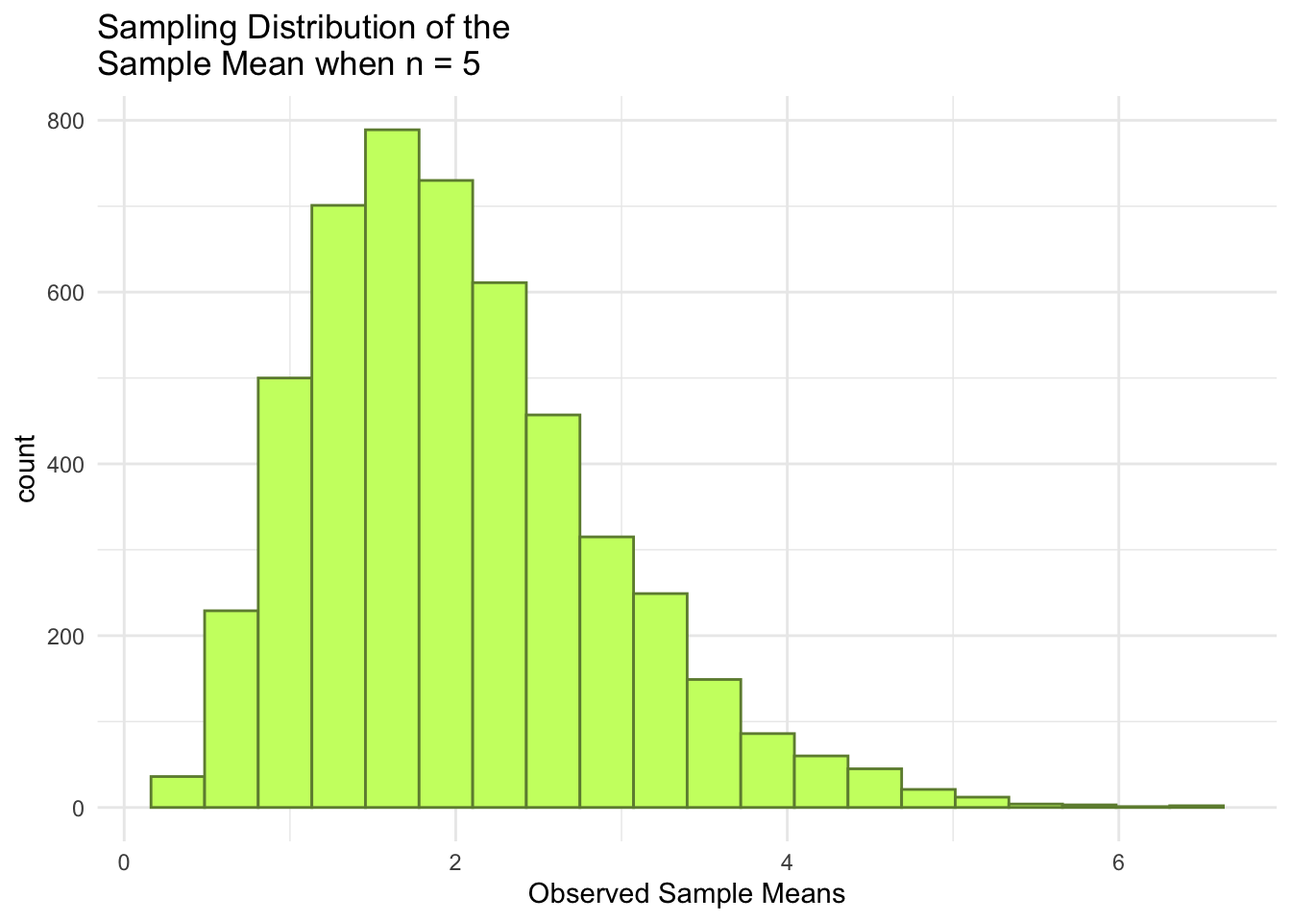
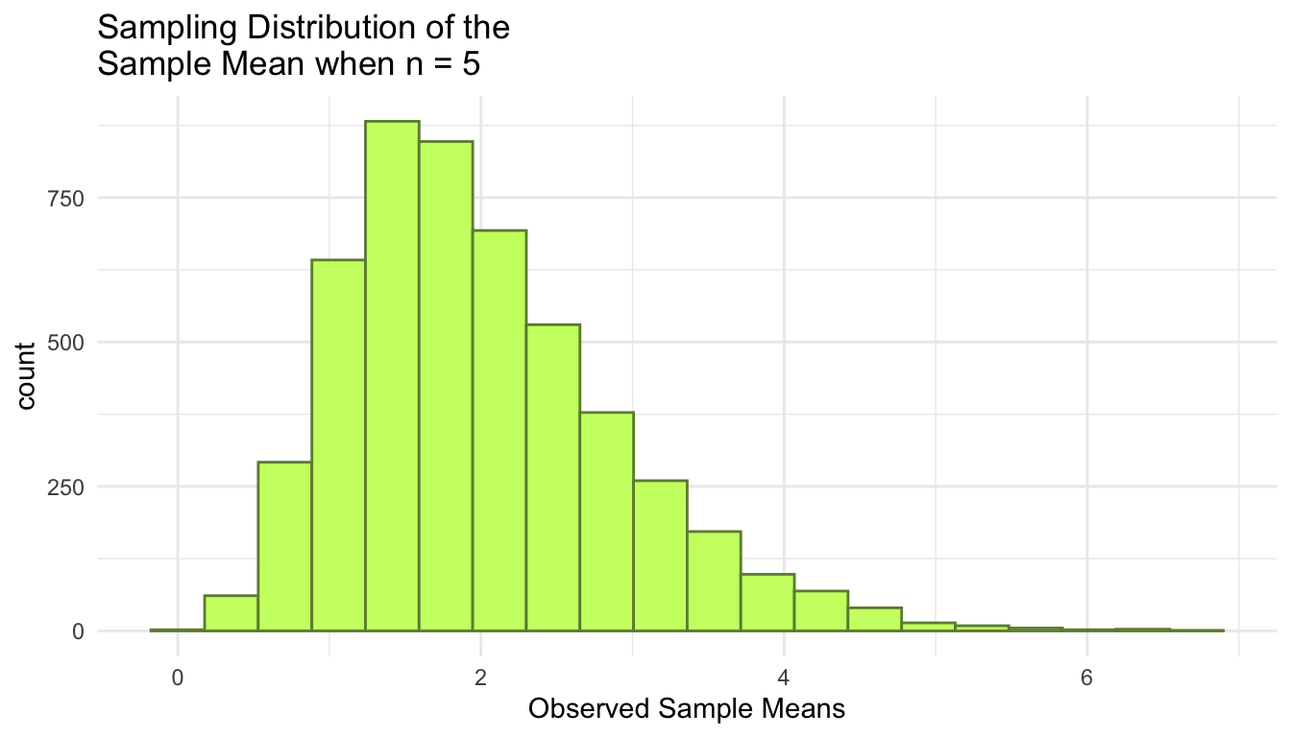
added common R file.

diff --git a/docs/samp-dist.html b/docs/samp-dist.html
@@ -258,25 +258,21 @@ window.Quarto = {
 <span><span class="co"># generate a random sample of n observations from a normal population</span></span>
 <span><span class="va">single_sample</span> <span class="op">&lt;-</span> <span class="fu"><a href="https://rdrr.io/r/stats/Normal.html">rnorm</a></span><span class="op">(</span><span class="va">n</span>, <span class="va">mu</span>, <span class="va">sigma</span><span class="op">)</span> <span class="op">|&gt;</span> <span class="fu"><a href="https://rdrr.io/r/base/Round.html">round</a></span><span class="op">(</span><span class="fl">2</span><span class="op">)</span></span>
 <span><span class="co"># look at the sample</span></span>
-<span><span class="va">single_sample</span> </span></code><button title="Copy to Clipboard" class="code-copy-button"><i class="bi"></i></button></pre></div>
-<div class="cell-output cell-output-stdout">
-<pre><code>[1]  7.93  8.31 12.45  8.24 12.08</code></pre>
-</div>
+<span><span class="va">single_sample</span> </span>
+<span><span class="co">#&gt; [1] 10.80  7.77 12.30 10.69 10.36</span></span></code><button title="Copy to Clipboard" class="code-copy-button"><i class="bi"></i></button></pre></div>
 </div>
 <p>Next, we compute the sample mean from this sample: this is our sample statistic we are interested in.</p>
 <div class="cell">
-<div class="sourceCode" id="cb4"><pre class="downlit sourceCode r code-with-copy"><code class="sourceCode R"><span><span class="co"># compute the sample mean</span></span>
+<div class="sourceCode" id="cb3"><pre class="downlit sourceCode r code-with-copy"><code class="sourceCode R"><span><span class="co"># compute the sample mean</span></span>
 <span><span class="va">sample_mean</span> <span class="op">&lt;-</span> <span class="fu"><a href="https://rdrr.io/r/base/mean.html">mean</a></span><span class="op">(</span><span class="va">single_sample</span><span class="op">)</span></span>
 <span><span class="co"># look at the sample mean</span></span>
-<span><span class="va">sample_mean</span>     </span></code><button title="Copy to Clipboard" class="code-copy-button"><i class="bi"></i></button></pre></div>
-<div class="cell-output cell-output-stdout">
-<pre><code>[1] 9.802</code></pre>
-</div>
+<span><span class="va">sample_mean</span>     </span>
+<span><span class="co">#&gt; [1] 10.384</span></span></code><button title="Copy to Clipboard" class="code-copy-button"><i class="bi"></i></button></pre></div>
 </div>
 <p>Again, your sample mean should be different!</p>
 <p>Finally, we can make a plot of our single sample, along with where the sample mean lies.</p>
 <div class="cell">
-<div class="sourceCode" id="cb6"><pre class="downlit sourceCode r code-with-copy"><code class="sourceCode R"><span><span class="co"># generate a range of values that span the population</span></span>
+<div class="sourceCode" id="cb4"><pre class="downlit sourceCode r code-with-copy"><code class="sourceCode R"><span><span class="co"># generate a range of values that span the population</span></span>
 <span><span class="va">plot_df</span> <span class="op">&lt;-</span> <span class="fu"><a href="https://tibble.tidyverse.org/reference/tibble.html">tibble</a></span><span class="op">(</span>xvals <span class="op">=</span> <span class="fu"><a href="https://rdrr.io/r/base/seq.html">seq</a></span><span class="op">(</span><span class="va">mu</span> <span class="op">-</span> <span class="fl">4</span> <span class="op">*</span> <span class="va">sigma</span>, <span class="va">mu</span> <span class="op">+</span> <span class="fl">4</span> <span class="op">*</span> <span class="va">sigma</span>, length.out <span class="op">=</span> <span class="fl">500</span><span class="op">)</span><span class="op">)</span> <span class="op">|&gt;</span></span>
 <span>  <span class="fu"><a href="https://dplyr.tidyverse.org/reference/mutate.html">mutate</a></span><span class="op">(</span>xvals_density <span class="op">=</span> <span class="fu"><a href="https://rdrr.io/r/stats/Normal.html">dnorm</a></span><span class="op">(</span><span class="va">xvals</span>, <span class="va">mu</span>, <span class="va">sigma</span><span class="op">)</span><span class="op">)</span></span>
 <span></span>
@@ -293,7 +289,7 @@ window.Quarto = {
 <span>       title <span class="op">=</span> <span class="st">"Normal with Mu = 10 and sigma = 2"</span><span class="op">)</span></span></code><button title="Copy to Clipboard" class="code-copy-button"><i class="bi"></i></button></pre></div>
 <div class="cell-output-display">
 <div>
-<figure class="figure"><p><img src="samp-dist_files/figure-html/unnamed-chunk-4-1.png" class="img-fluid figure-img" width="672"></p>
+<figure class="figure"><p><img src="samp-dist_files/figure-html/unnamed-chunk-5-1.png" class="img-fluid figure-img" width="672"></p>
 </figure>
 </div>
 </div>
@@ -307,7 +303,7 @@ window.Quarto = {
 </ol>
 <p>First, let’s write the function that will compute the sample mean with a given sample size from a normal population model with a given mean and standard deviation.</p>
 <div class="cell">
-<div class="sourceCode" id="cb7"><pre class="downlit sourceCode r code-with-copy"><code class="sourceCode R"><span><span class="va">n</span> <span class="op">&lt;-</span> <span class="fl">5</span>            <span class="co"># sample size</span></span>
+<div class="sourceCode" id="cb5"><pre class="downlit sourceCode r code-with-copy"><code class="sourceCode R"><span><span class="va">n</span> <span class="op">&lt;-</span> <span class="fl">5</span>            <span class="co"># sample size</span></span>
 <span><span class="va">mu</span> <span class="op">&lt;-</span> <span class="fl">10</span>          <span class="co"># population mean</span></span>
 <span><span class="va">sigma</span> <span class="op">&lt;-</span> <span class="fl">2</span>        <span class="co"># population standard deviation</span></span>
 <span></span>
@@ -320,14 +316,12 @@ window.Quarto = {
 <span><span class="op">}</span></span>
 <span></span>
 <span><span class="co">## test function once:</span></span>
-<span><span class="fu">generate_normal_mean</span><span class="op">(</span>mu <span class="op">=</span> <span class="va">mu</span>, sigma <span class="op">=</span> <span class="va">sigma</span>, n <span class="op">=</span> <span class="va">n</span><span class="op">)</span></span></code><button title="Copy to Clipboard" class="code-copy-button"><i class="bi"></i></button></pre></div>
-<div class="cell-output cell-output-stdout">
-<pre><code>[1] 9.692015</code></pre>
-</div>
+<span><span class="fu">generate_normal_mean</span><span class="op">(</span>mu <span class="op">=</span> <span class="va">mu</span>, sigma <span class="op">=</span> <span class="va">sigma</span>, n <span class="op">=</span> <span class="va">n</span><span class="op">)</span></span>
+<span><span class="co">#&gt; [1] 8.907905</span></span></code><button title="Copy to Clipboard" class="code-copy-button"><i class="bi"></i></button></pre></div>
 </div>
 <p>Next, to generate 5000 sample means, we map through the function:</p>
 <div class="cell">
-<div class="sourceCode" id="cb9"><pre class="downlit sourceCode r code-with-copy"><code class="sourceCode R"><span><span class="va">nsim</span> <span class="op">&lt;-</span> <span class="fl">5000</span>      <span class="co"># number of simulations</span></span>
+<div class="sourceCode" id="cb6"><pre class="downlit sourceCode r code-with-copy"><code class="sourceCode R"><span><span class="va">nsim</span> <span class="op">&lt;-</span> <span class="fl">5000</span>      <span class="co"># number of simulations</span></span>
 <span></span>
 <span><span class="co">## code to map through the function. </span></span>
 <span><span class="co">## the \(i) syntax says to just repeat the generate_normal_mean function</span></span>
@@ -337,81 +331,70 @@ window.Quarto = {
 <span><span class="co">## print some of the 5000 means</span></span>
 <span><span class="co">## each number represents the sample mean from __one__ sample.</span></span>
 <span><span class="va">means_df</span> <span class="op">&lt;-</span> <span class="fu"><a href="https://tibble.tidyverse.org/reference/tibble.html">tibble</a></span><span class="op">(</span><span class="va">means</span><span class="op">)</span></span>
-<span><span class="va">means_df</span></span></code><button title="Copy to Clipboard" class="code-copy-button"><i class="bi"></i></button></pre></div>
-<div class="cell-output cell-output-stdout">
-<pre><code># A tibble: 5,000 × 1
-   means
-   &lt;dbl&gt;
- 1 10.3 
- 2 10.5 
- 3 10.1 
- 4 11.5 
- 5 10.7 
- 6  8.98
- 7 10.9 
- 8  9.83
- 9 10.3 
-10 10.6 
-# ℹ 4,990 more rows</code></pre>
-</div>
+<span><span class="va">means_df</span></span>
+<span><span class="co">#&gt; # A tibble: 5,000 × 1</span></span>
+<span><span class="co">#&gt;   means</span></span>
+<span><span class="co">#&gt;   &lt;dbl&gt;</span></span>
+<span><span class="co">#&gt; 1  9.69</span></span>
+<span><span class="co">#&gt; 2 10.3 </span></span>
+<span><span class="co">#&gt; 3  9.55</span></span>
+<span><span class="co">#&gt; 4 11.5 </span></span>
+<span><span class="co">#&gt; 5  9.13</span></span>
+<span><span class="co">#&gt; 6  8.77</span></span>
+<span><span class="co">#&gt; # ℹ 4,994 more rows</span></span></code><button title="Copy to Clipboard" class="code-copy-button"><i class="bi"></i></button></pre></div>
 </div>
 <p>Finally, we plot the 5000 sample means to see what our sampling distribution of the sample mean (for a sample size of 5) looks like.</p>
 <div class="cell">
-<div class="sourceCode" id="cb11"><pre class="downlit sourceCode r code-with-copy"><code class="sourceCode R"><span><span class="fu"><a href="https://ggplot2.tidyverse.org/reference/ggplot.html">ggplot</a></span><span class="op">(</span>data <span class="op">=</span> <span class="va">means_df</span>, <span class="fu"><a href="https://ggplot2.tidyverse.org/reference/aes.html">aes</a></span><span class="op">(</span>x <span class="op">=</span> <span class="va">means</span><span class="op">)</span><span class="op">)</span> <span class="op">+</span></span>
+<div class="sourceCode" id="cb7"><pre class="downlit sourceCode r code-with-copy"><code class="sourceCode R"><span><span class="fu"><a href="https://ggplot2.tidyverse.org/reference/ggplot.html">ggplot</a></span><span class="op">(</span>data <span class="op">=</span> <span class="va">means_df</span>, <span class="fu"><a href="https://ggplot2.tidyverse.org/reference/aes.html">aes</a></span><span class="op">(</span>x <span class="op">=</span> <span class="va">means</span><span class="op">)</span><span class="op">)</span> <span class="op">+</span></span>
 <span>  <span class="fu"><a href="https://ggplot2.tidyverse.org/reference/geom_histogram.html">geom_histogram</a></span><span class="op">(</span>colour <span class="op">=</span> <span class="st">"deeppink4"</span>, fill <span class="op">=</span> <span class="st">"deeppink1"</span>, bins <span class="op">=</span> <span class="fl">20</span><span class="op">)</span> <span class="op">+</span></span>
 <span>  <span class="fu"><a href="https://ggplot2.tidyverse.org/reference/ggtheme.html">theme_minimal</a></span><span class="op">(</span><span class="op">)</span> <span class="op">+</span></span>
 <span>  <span class="fu"><a href="https://ggplot2.tidyverse.org/reference/labs.html">labs</a></span><span class="op">(</span>x <span class="op">=</span> <span class="st">"Observed Sample Means"</span>,</span>
 <span>       title <span class="op">=</span> <span class="fu"><a href="https://rdrr.io/r/base/paste.html">paste</a></span><span class="op">(</span><span class="st">"Sampling Distribution of the \nSample Mean when n ="</span>, <span class="va">n</span><span class="op">)</span><span class="op">)</span></span></code><button title="Copy to Clipboard" class="code-copy-button"><i class="bi"></i></button></pre></div>
 <div class="cell-output-display">
 <div>
-<figure class="figure"><p><img src="samp-dist_files/figure-html/unnamed-chunk-7-1.png" class="img-fluid figure-img" width="672"></p>
+<figure class="figure"><p><img src="samp-dist_files/figure-html/unnamed-chunk-8-1.png" class="img-fluid figure-img" width="672"></p>
 </figure>
 </div>
 </div>
 </div>
 <p>We can also obtain some summary statistics of the sampling distribution of the sample mean when <span class="math inline">\(n\)</span> = 5:</p>
 <div class="cell">
-<div class="sourceCode" id="cb12"><pre class="downlit sourceCode r code-with-copy"><code class="sourceCode R"><span><span class="va">means_df</span> <span class="op">|&gt;</span></span>
+<div class="sourceCode" id="cb8"><pre class="downlit sourceCode r code-with-copy"><code class="sourceCode R"><span><span class="va">means_df</span> <span class="op">|&gt;</span></span>
 <span>  <span class="fu"><a href="https://dplyr.tidyverse.org/reference/summarise.html">summarise</a></span><span class="op">(</span>mean_samp_dist <span class="op">=</span> <span class="fu"><a href="https://rdrr.io/r/base/mean.html">mean</a></span><span class="op">(</span><span class="va">means</span><span class="op">)</span>,</span>
 <span>            var_samp_dist <span class="op">=</span> <span class="fu"><a href="https://rdrr.io/r/stats/cor.html">var</a></span><span class="op">(</span><span class="va">means</span><span class="op">)</span>,</span>
-<span>            sd_samp_dist <span class="op">=</span> <span class="fu"><a href="https://rdrr.io/r/stats/sd.html">sd</a></span><span class="op">(</span><span class="va">means</span><span class="op">)</span><span class="op">)</span></span></code><button title="Copy to Clipboard" class="code-copy-button"><i class="bi"></i></button></pre></div>
-<div class="cell-output cell-output-stdout">
-<pre><code># A tibble: 1 × 3
-  mean_samp_dist var_samp_dist sd_samp_dist
-           &lt;dbl&gt;         &lt;dbl&gt;        &lt;dbl&gt;
-1           10.0         0.807        0.898</code></pre>
-</div>
+<span>            sd_samp_dist <span class="op">=</span> <span class="fu"><a href="https://rdrr.io/r/stats/sd.html">sd</a></span><span class="op">(</span><span class="va">means</span><span class="op">)</span><span class="op">)</span></span>
+<span><span class="co">#&gt; # A tibble: 1 × 3</span></span>
+<span><span class="co">#&gt;   mean_samp_dist var_samp_dist sd_samp_dist</span></span>
+<span><span class="co">#&gt;            &lt;dbl&gt;         &lt;dbl&gt;        &lt;dbl&gt;</span></span>
+<span><span class="co">#&gt; 1           10.0         0.805        0.897</span></span></code><button title="Copy to Clipboard" class="code-copy-button"><i class="bi"></i></button></pre></div>
 </div>
 <p>And, we can even obtain estimates of the probability that we observe a sample mean larger than 11 by <strong>calculating the proportion of our observed sample means that are larger than 11</strong>. We can use a similar strategy to estimate the probability that we observe a sample mean less than or equal to 9.5.</p>
 <div class="cell">
-<div class="sourceCode" id="cb14"><pre class="downlit sourceCode r code-with-copy"><code class="sourceCode R"><span><span class="co"># What is the probability that we observe a sample mean larger than 11?</span></span>
+<div class="sourceCode" id="cb9"><pre class="downlit sourceCode r code-with-copy"><code class="sourceCode R"><span><span class="co"># What is the probability that we observe a sample mean larger than 11?</span></span>
 <span><span class="va">means_df</span> <span class="op">|&gt;</span></span>
 <span>  <span class="fu"><a href="https://dplyr.tidyverse.org/reference/mutate.html">mutate</a></span><span class="op">(</span>more_than_11 <span class="op">=</span> <span class="fu"><a href="https://dplyr.tidyverse.org/reference/if_else.html">if_else</a></span><span class="op">(</span><span class="va">means</span> <span class="op">&gt;</span> <span class="fl">11</span>,</span>
 <span>                                true <span class="op">=</span> <span class="fl">1</span>, false <span class="op">=</span> <span class="fl">0</span><span class="op">)</span><span class="op">)</span> <span class="op">|&gt;</span></span>
-<span>  <span class="fu"><a href="https://dplyr.tidyverse.org/reference/summarise.html">summarise</a></span><span class="op">(</span>prob_more_than_11 <span class="op">=</span> <span class="fu"><a href="https://rdrr.io/r/base/mean.html">mean</a></span><span class="op">(</span><span class="va">more_than_11</span><span class="op">)</span><span class="op">)</span></span></code><button title="Copy to Clipboard" class="code-copy-button"><i class="bi"></i></button></pre></div>
-<div class="cell-output cell-output-stdout">
-<pre><code># A tibble: 1 × 1
-  prob_more_than_11
-              &lt;dbl&gt;
-1             0.130</code></pre>
-</div>
-<div class="sourceCode" id="cb16"><pre class="downlit sourceCode r code-with-copy"><code class="sourceCode R"><span><span class="co"># What is the probability that we observe a sample mean less than or equal to 9.5?</span></span>
+<span>  <span class="fu"><a href="https://dplyr.tidyverse.org/reference/summarise.html">summarise</a></span><span class="op">(</span>prob_more_than_11 <span class="op">=</span> <span class="fu"><a href="https://rdrr.io/r/base/mean.html">mean</a></span><span class="op">(</span><span class="va">more_than_11</span><span class="op">)</span><span class="op">)</span></span>
+<span><span class="co">#&gt; # A tibble: 1 × 1</span></span>
+<span><span class="co">#&gt;   prob_more_than_11</span></span>
+<span><span class="co">#&gt;               &lt;dbl&gt;</span></span>
+<span><span class="co">#&gt; 1             0.133</span></span>
+<span></span>
+<span><span class="co"># What is the probability that we observe a sample mean less than or equal to 9.5?</span></span>
 <span><span class="va">means_df</span> <span class="op">|&gt;</span></span>
 <span>  <span class="fu"><a href="https://dplyr.tidyverse.org/reference/mutate.html">mutate</a></span><span class="op">(</span>less_9.5 <span class="op">=</span> <span class="fu"><a href="https://dplyr.tidyverse.org/reference/if_else.html">if_else</a></span><span class="op">(</span><span class="va">means</span> <span class="op">&lt;=</span> <span class="fl">9.5</span>,</span>
 <span>                            true <span class="op">=</span> <span class="fl">1</span>, false <span class="op">=</span> <span class="fl">0</span><span class="op">)</span><span class="op">)</span> <span class="op">|&gt;</span></span>
-<span>  <span class="fu"><a href="https://dplyr.tidyverse.org/reference/summarise.html">summarise</a></span><span class="op">(</span>prob_less_9.5 <span class="op">=</span> <span class="fu"><a href="https://rdrr.io/r/base/mean.html">mean</a></span><span class="op">(</span><span class="va">less_9.5</span><span class="op">)</span><span class="op">)</span></span></code><button title="Copy to Clipboard" class="code-copy-button"><i class="bi"></i></button></pre></div>
-<div class="cell-output cell-output-stdout">
-<pre><code># A tibble: 1 × 1
-  prob_less_9.5
-          &lt;dbl&gt;
-1         0.292</code></pre>
-</div>
+<span>  <span class="fu"><a href="https://dplyr.tidyverse.org/reference/summarise.html">summarise</a></span><span class="op">(</span>prob_less_9.5 <span class="op">=</span> <span class="fu"><a href="https://rdrr.io/r/base/mean.html">mean</a></span><span class="op">(</span><span class="va">less_9.5</span><span class="op">)</span><span class="op">)</span></span>
+<span><span class="co">#&gt; # A tibble: 1 × 1</span></span>
+<span><span class="co">#&gt;   prob_less_9.5</span></span>
+<span><span class="co">#&gt;           &lt;dbl&gt;</span></span>
+<span><span class="co">#&gt; 1         0.290</span></span></code><button title="Copy to Clipboard" class="code-copy-button"><i class="bi"></i></button></pre></div>
 </div>
 <p><strong>Exercise 1</strong>. Repeat the construction of the sampling distribution of the sample mean several times. How do the results change (or not)?</p>
 <p><strong>Exercise 2</strong>. Use the result from Stat 325 to report the theoretical distribution of the sample mean. Use this result to find <span class="math inline">\(P(\bar{Y}\leq 9.5)\)</span> and <span class="math inline">\(P(\bar{Y}&gt;11)\)</span> analytically.</p>
 <p><strong>Exercise 3</strong>. What can we conclude about the sampling distribution of <span class="math inline">\(\bar{y}\)</span> when taking samples of <span class="math inline">\(n = 5\)</span> from <em>this</em> population? How do the simulation results compare to the result from Stat 325? Use the plot below in your answer to this question.</p>
 <div class="cell">
-<div class="sourceCode" id="cb18"><pre class="downlit sourceCode r code-with-copy"><code class="sourceCode R"><span><span class="va">theoretical_df</span> <span class="op">&lt;-</span> <span class="fu"><a href="https://tibble.tidyverse.org/reference/tibble.html">tibble</a></span><span class="op">(</span>xvals <span class="op">=</span> <span class="fu"><a href="https://rdrr.io/r/base/seq.html">seq</a></span><span class="op">(</span><span class="va">mu</span> <span class="op">-</span> <span class="fl">4</span> <span class="op">*</span> <span class="va">sigma</span> <span class="op">/</span> <span class="fu"><a href="https://rdrr.io/r/base/MathFun.html">sqrt</a></span><span class="op">(</span><span class="va">n</span><span class="op">)</span>,</span>
+<div class="sourceCode" id="cb10"><pre class="downlit sourceCode r code-with-copy"><code class="sourceCode R"><span><span class="va">theoretical_df</span> <span class="op">&lt;-</span> <span class="fu"><a href="https://tibble.tidyverse.org/reference/tibble.html">tibble</a></span><span class="op">(</span>xvals <span class="op">=</span> <span class="fu"><a href="https://rdrr.io/r/base/seq.html">seq</a></span><span class="op">(</span><span class="va">mu</span> <span class="op">-</span> <span class="fl">4</span> <span class="op">*</span> <span class="va">sigma</span> <span class="op">/</span> <span class="fu"><a href="https://rdrr.io/r/base/MathFun.html">sqrt</a></span><span class="op">(</span><span class="va">n</span><span class="op">)</span>,</span>
 <span>                                     <span class="va">mu</span> <span class="op">+</span> <span class="fl">4</span> <span class="op">*</span> <span class="va">sigma</span> <span class="op">/</span> <span class="fu"><a href="https://rdrr.io/r/base/MathFun.html">sqrt</a></span><span class="op">(</span><span class="va">n</span><span class="op">)</span>,</span>
 <span>                                     length.out <span class="op">=</span> <span class="fl">500</span><span class="op">)</span><span class="op">)</span> <span class="op">|&gt;</span></span>
 <span>  <span class="fu"><a href="https://dplyr.tidyverse.org/reference/mutate.html">mutate</a></span><span class="op">(</span>xvals_density <span class="op">=</span> <span class="fu"><a href="https://rdrr.io/r/stats/Normal.html">dnorm</a></span><span class="op">(</span><span class="va">xvals</span>, <span class="va">mu</span>, <span class="va">sigma</span> <span class="op">/</span> <span class="fu"><a href="https://rdrr.io/r/base/MathFun.html">sqrt</a></span><span class="op">(</span><span class="va">n</span><span class="op">)</span><span class="op">)</span><span class="op">)</span></span>
@@ -425,7 +408,7 @@ window.Quarto = {
 <span>  <span class="fu"><a href="https://ggplot2.tidyverse.org/reference/geom_path.html">geom_line</a></span><span class="op">(</span>data <span class="op">=</span> <span class="va">theoretical_df</span>, <span class="fu"><a href="https://ggplot2.tidyverse.org/reference/aes.html">aes</a></span><span class="op">(</span>x <span class="op">=</span> <span class="va">xvals</span>, y <span class="op">=</span> <span class="va">xvals_density</span><span class="op">)</span><span class="op">)</span></span></code><button title="Copy to Clipboard" class="code-copy-button"><i class="bi"></i></button></pre></div>
 <div class="cell-output-display">
 <div>
-<figure class="figure"><p><img src="samp-dist_files/figure-html/unnamed-chunk-10-1.png" class="img-fluid figure-img" width="672"></p>
+<figure class="figure"><p><img src="samp-dist_files/figure-html/unnamed-chunk-11-1.png" class="img-fluid figure-img" width="672"></p>
 </figure>
 </div>
 </div>
@@ -434,11 +417,11 @@ window.Quarto = {
 </section></section><section id="lab-1.2-sampling-distribution-for-a-non-normal-population" class="level2"><h2 class="anchored" data-anchor-id="lab-1.2-sampling-distribution-for-a-non-normal-population">Lab 1.2: Sampling Distribution for a non-Normal Population</h2>
 <p>Now consider an Exponential(<span class="math inline">\(\lambda\)</span> = 0.5) population. Go back to a sample size of <span class="math inline">\(n = 5\)</span> and continue calculating the sample mean, <span class="math inline">\(\bar{y}\)</span>. Before beginning, you should make sure to load in the <code>tidyverse</code> library again so that we can make some plots:</p>
 <div class="cell">
-<div class="sourceCode" id="cb19"><pre class="downlit sourceCode r code-with-copy"><code class="sourceCode R"><span><span class="kw"><a href="https://rdrr.io/r/base/library.html">library</a></span><span class="op">(</span><span class="va"><a href="https://tidyverse.tidyverse.org">tidyverse</a></span><span class="op">)</span></span></code><button title="Copy to Clipboard" class="code-copy-button"><i class="bi"></i></button></pre></div>
+<div class="sourceCode" id="cb11"><pre class="downlit sourceCode r code-with-copy"><code class="sourceCode R"><span><span class="kw"><a href="https://rdrr.io/r/base/library.html">library</a></span><span class="op">(</span><span class="va"><a href="https://tidyverse.tidyverse.org">tidyverse</a></span><span class="op">)</span></span></code><button title="Copy to Clipboard" class="code-copy-button"><i class="bi"></i></button></pre></div>
 </div>
 <p>The code below modifies the code from the previous section on a normal population model to reflect the updated exponential population model. Copy the code and run it in your own R session to obtain the graph of the exponential population model with a random sample of <span class="math inline">\(n = 5\)</span> observations.</p>
 <div class="cell">
-<div class="sourceCode" id="cb20"><pre class="downlit sourceCode r code-with-copy"><code class="sourceCode R"><span><span class="va">n</span> <span class="op">&lt;-</span> <span class="fl">5</span>       <span class="co"># sample size</span></span>
+<div class="sourceCode" id="cb12"><pre class="downlit sourceCode r code-with-copy"><code class="sourceCode R"><span><span class="va">n</span> <span class="op">&lt;-</span> <span class="fl">5</span>       <span class="co"># sample size</span></span>
 <span><span class="va">lambda</span> <span class="op">&lt;-</span> <span class="fl">0.5</span></span>
 <span><span class="va">mu</span> <span class="op">&lt;-</span> <span class="fl">1</span> <span class="op">/</span> <span class="va">lambda</span>   <span class="co"># population mean</span></span>
 <span><span class="va">sigma</span> <span class="op">&lt;-</span> <span class="fu"><a href="https://rdrr.io/r/base/MathFun.html">sqrt</a></span><span class="op">(</span><span class="fl">1</span> <span class="op">/</span> <span class="va">lambda</span> <span class="op">^</span> <span class="fl">2</span><span class="op">)</span>  <span class="co"># population standard deviation</span></span>
@@ -471,7 +454,7 @@ window.Quarto = {
 </div>
 <p>Now that we have an idea of what the population model looks like and we can generate a single sample from this model (along with the sample mean), we can repeat the generation of the sample mean thousands of times to construct the sampling distribution of the sample mean when <span class="math inline">\(n = 5\)</span> for the exponential model.</p>
 <div class="cell">
-<div class="sourceCode" id="cb21"><pre class="downlit sourceCode r code-with-copy"><code class="sourceCode R"><span><span class="va">n</span> <span class="op">&lt;-</span> <span class="fl">5</span>       <span class="co"># sample size</span></span>
+<div class="sourceCode" id="cb13"><pre class="downlit sourceCode r code-with-copy"><code class="sourceCode R"><span><span class="va">n</span> <span class="op">&lt;-</span> <span class="fl">5</span>       <span class="co"># sample size</span></span>
 <span><span class="va">lambda</span> <span class="op">&lt;-</span> <span class="fl">0.5</span></span>
 <span><span class="va">mu</span> <span class="op">&lt;-</span> <span class="fl">1</span> <span class="op">/</span> <span class="va">lambda</span>   <span class="co"># population mean</span></span>
 <span><span class="va">sigma</span> <span class="op">&lt;-</span> <span class="fu"><a href="https://rdrr.io/r/base/MathFun.html">sqrt</a></span><span class="op">(</span><span class="fl">1</span> <span class="op">/</span> <span class="va">lambda</span> <span class="op">^</span> <span class="fl">2</span><span class="op">)</span>  <span class="co"># population standard deviation</span></span>
@@ -485,35 +468,29 @@ window.Quarto = {
 <span><span class="op">}</span></span>
 <span></span>
 <span><span class="co">## test function once:</span></span>
-<span><span class="fu">generate_exp_mean</span><span class="op">(</span>lambda <span class="op">=</span> <span class="va">lambda</span>, n <span class="op">=</span> <span class="va">n</span><span class="op">)</span></span></code><button title="Copy to Clipboard" class="code-copy-button"><i class="bi"></i></button></pre></div>
-<div class="cell-output cell-output-stdout">
-<pre><code>[1] 1.5417</code></pre>
-</div>
-<div class="sourceCode" id="cb23"><pre class="downlit sourceCode r code-with-copy"><code class="sourceCode R"><span><span class="va">nsim</span> <span class="op">&lt;-</span> <span class="fl">5000</span>      <span class="co"># number of simulations</span></span>
+<span><span class="fu">generate_exp_mean</span><span class="op">(</span>lambda <span class="op">=</span> <span class="va">lambda</span>, n <span class="op">=</span> <span class="va">n</span><span class="op">)</span></span>
+<span><span class="co">#&gt; [1] 3.851558</span></span>
+<span></span>
+<span><span class="va">nsim</span> <span class="op">&lt;-</span> <span class="fl">5000</span>      <span class="co"># number of simulations</span></span>
 <span></span>
 <span><span class="va">means</span> <span class="op">&lt;-</span> <span class="fu"><a href="https://purrr.tidyverse.org/reference/map.html">map_dbl</a></span><span class="op">(</span><span class="fl">1</span><span class="op">:</span><span class="va">nsim</span>, \<span class="op">(</span><span class="va">i</span><span class="op">)</span> <span class="fu">generate_exp_mean</span><span class="op">(</span>lambda <span class="op">=</span> <span class="va">lambda</span>, n <span class="op">=</span> <span class="va">n</span><span class="op">)</span><span class="op">)</span></span>
 <span></span>
 <span><span class="co">## print some of the 5000 means</span></span>
 <span><span class="co">## each number represents the sample mean from __one__ sample.</span></span>
 <span><span class="va">means_df</span> <span class="op">&lt;-</span> <span class="fu"><a href="https://tibble.tidyverse.org/reference/tibble.html">tibble</a></span><span class="op">(</span><span class="va">means</span><span class="op">)</span></span>
-<span><span class="va">means_df</span></span></code><button title="Copy to Clipboard" class="code-copy-button"><i class="bi"></i></button></pre></div>
-<div class="cell-output cell-output-stdout">
-<pre><code># A tibble: 5,000 × 1
-   means
-   &lt;dbl&gt;
- 1 1.28 
- 2 1.99 
- 3 2.54 
- 4 2.71 
- 5 0.956
- 6 3.21 
- 7 1.05 
- 8 2.80 
- 9 1.96 
-10 1.69 
-# ℹ 4,990 more rows</code></pre>
-</div>
-<div class="sourceCode" id="cb25"><pre class="downlit sourceCode r code-with-copy"><code class="sourceCode R"><span><span class="fu"><a href="https://ggplot2.tidyverse.org/reference/ggplot.html">ggplot</a></span><span class="op">(</span>data <span class="op">=</span> <span class="va">means_df</span>, <span class="fu"><a href="https://ggplot2.tidyverse.org/reference/aes.html">aes</a></span><span class="op">(</span>x <span class="op">=</span> <span class="va">means</span><span class="op">)</span><span class="op">)</span> <span class="op">+</span></span>
+<span><span class="va">means_df</span></span>
+<span><span class="co">#&gt; # A tibble: 5,000 × 1</span></span>
+<span><span class="co">#&gt;   means</span></span>
+<span><span class="co">#&gt;   &lt;dbl&gt;</span></span>
+<span><span class="co">#&gt; 1 1.72 </span></span>
+<span><span class="co">#&gt; 2 3.39 </span></span>
+<span><span class="co">#&gt; 3 4.02 </span></span>
+<span><span class="co">#&gt; 4 0.154</span></span>
+<span><span class="co">#&gt; 5 2.95 </span></span>
+<span><span class="co">#&gt; 6 2.39 </span></span>
+<span><span class="co">#&gt; # ℹ 4,994 more rows</span></span>
+<span></span>
+<span><span class="fu"><a href="https://ggplot2.tidyverse.org/reference/ggplot.html">ggplot</a></span><span class="op">(</span>data <span class="op">=</span> <span class="va">means_df</span>, <span class="fu"><a href="https://ggplot2.tidyverse.org/reference/aes.html">aes</a></span><span class="op">(</span>x <span class="op">=</span> <span class="va">means</span><span class="op">)</span><span class="op">)</span> <span class="op">+</span></span>
 <span>  <span class="fu"><a href="https://ggplot2.tidyverse.org/reference/geom_histogram.html">geom_histogram</a></span><span class="op">(</span>colour <span class="op">=</span> <span class="st">"darkolivegreen4"</span>, fill <span class="op">=</span> <span class="st">"darkolivegreen1"</span>, bins <span class="op">=</span> <span class="fl">20</span><span class="op">)</span> <span class="op">+</span></span>
 <span>  <span class="fu"><a href="https://ggplot2.tidyverse.org/reference/ggtheme.html">theme_minimal</a></span><span class="op">(</span><span class="op">)</span> <span class="op">+</span></span>
 <span>  <span class="fu"><a href="https://ggplot2.tidyverse.org/reference/labs.html">labs</a></span><span class="op">(</span>x <span class="op">=</span> <span class="st">"Observed Sample Means"</span>,</span>
@@ -532,11 +509,11 @@ window.Quarto = {
 </section><section id="lab-1.3-sampling-distribution-of-the-sample-minimum" class="level2"><h2 class="anchored" data-anchor-id="lab-1.3-sampling-distribution-of-the-sample-minimum">Lab 1.3: Sampling Distribution of the Sample Minimum</h2>
 <p>Again, load in the <code>tidyverse</code> library so that we can make some plots!</p>
 <div class="cell">
-<div class="sourceCode" id="cb26"><pre class="downlit sourceCode r code-with-copy"><code class="sourceCode R"><span><span class="kw"><a href="https://rdrr.io/r/base/library.html">library</a></span><span class="op">(</span><span class="va"><a href="https://tidyverse.tidyverse.org">tidyverse</a></span><span class="op">)</span></span></code><button title="Copy to Clipboard" class="code-copy-button"><i class="bi"></i></button></pre></div>
+<div class="sourceCode" id="cb14"><pre class="downlit sourceCode r code-with-copy"><code class="sourceCode R"><span><span class="kw"><a href="https://rdrr.io/r/base/library.html">library</a></span><span class="op">(</span><span class="va"><a href="https://tidyverse.tidyverse.org">tidyverse</a></span><span class="op">)</span></span></code><button title="Copy to Clipboard" class="code-copy-button"><i class="bi"></i></button></pre></div>
 </div>
 <p>Let’s return to our original Normal(<span class="math inline">\(\mu\)</span> = 10, <span class="math inline">\(\sigma^2\)</span> = 4), but let’s consider a different statistic: the sample minimum. Examine the code that you ran in an earlier lab below.</p>
 <div class="cell">
-<div class="sourceCode" id="cb27"><pre class="downlit sourceCode r code-with-copy"><code class="sourceCode R"><span><span class="va">n</span> <span class="op">&lt;-</span> <span class="fl">5</span>       <span class="co"># sample size</span></span>
+<div class="sourceCode" id="cb15"><pre class="downlit sourceCode r code-with-copy"><code class="sourceCode R"><span><span class="va">n</span> <span class="op">&lt;-</span> <span class="fl">5</span>       <span class="co"># sample size</span></span>
 <span><span class="va">mu</span> <span class="op">&lt;-</span> <span class="fl">10</span>     <span class="co"># population mean</span></span>
 <span><span class="va">sigma</span> <span class="op">&lt;-</span> <span class="fl">2</span>   <span class="co"># population standard deviation</span></span>
 <span></span>
@@ -570,7 +547,7 @@ window.Quarto = {
 <p><strong>Exercise 2</strong>. Predict what might happen next! That is, based on what you’ve seen by re-running the code above, where do you expect the center of the sampling distribution of the sample minimum to be relative to 10? Do you expect the sampling distribution of the sample minimum to overlap with the value 10 at all (if <span class="math inline">\(n = 5\)</span>).</p>
 <p><strong>Exercise 3</strong>. Modify the code below so that you generate the sampling distribution of the sample minimum instead of the sample mean.</p>
 <div class="cell">
-<div class="sourceCode" id="cb28"><pre class="downlit sourceCode r code-with-copy"><code class="sourceCode R"><span><span class="va">n</span> <span class="op">&lt;-</span> <span class="fl">5</span>            <span class="co"># sample size</span></span>
+<div class="sourceCode" id="cb16"><pre class="downlit sourceCode r code-with-copy"><code class="sourceCode R"><span><span class="va">n</span> <span class="op">&lt;-</span> <span class="fl">5</span>            <span class="co"># sample size</span></span>
 <span><span class="va">mu</span> <span class="op">&lt;-</span> <span class="fl">10</span>          <span class="co"># population mean</span></span>
 <span><span class="va">sigma</span> <span class="op">&lt;-</span> <span class="fl">2</span>        <span class="co"># population standard deviation</span></span>
 <span></span>
@@ -601,8 +578,9 @@ window.Quarto = {
 <span>  <span class="fu"><a href="https://ggplot2.tidyverse.org/reference/geom_histogram.html">geom_histogram</a></span><span class="op">(</span>colour <span class="op">=</span> <span class="st">"deeppink4"</span>, fill <span class="op">=</span> <span class="st">"deeppink1"</span>, bins <span class="op">=</span> <span class="fl">20</span><span class="op">)</span> <span class="op">+</span></span>
 <span>  <span class="fu"><a href="https://ggplot2.tidyverse.org/reference/ggtheme.html">theme_minimal</a></span><span class="op">(</span><span class="op">)</span> <span class="op">+</span></span>
 <span>  <span class="fu"><a href="https://ggplot2.tidyverse.org/reference/labs.html">labs</a></span><span class="op">(</span>x <span class="op">=</span> <span class="st">"Observed Sample Means"</span>,</span>
-<span>       title <span class="op">=</span> <span class="fu"><a href="https://rdrr.io/r/base/paste.html">paste</a></span><span class="op">(</span><span class="st">"Sampling Distribution of the \nSample Mean when n ="</span>, <span class="va">n</span><span class="op">)</span><span class="op">)</span></span></code><button title="Copy to Clipboard" class="code-copy-button"><i class="bi"></i></button></pre></div>
-<div class="sourceCode" id="cb29"><pre class="downlit sourceCode r code-with-copy"><code class="sourceCode R"><span><span class="va">means_df</span> <span class="op">|&gt;</span></span>
+<span>       title <span class="op">=</span> <span class="fu"><a href="https://rdrr.io/r/base/paste.html">paste</a></span><span class="op">(</span><span class="st">"Sampling Distribution of the \nSample Mean when n ="</span>, <span class="va">n</span><span class="op">)</span><span class="op">)</span></span>
+<span></span>
+<span><span class="va">means_df</span> <span class="op">|&gt;</span></span>
 <span>  <span class="fu"><a href="https://dplyr.tidyverse.org/reference/summarise.html">summarise</a></span><span class="op">(</span>mean_samp_dist <span class="op">=</span> <span class="fu"><a href="https://rdrr.io/r/base/mean.html">mean</a></span><span class="op">(</span><span class="va">means</span><span class="op">)</span>,</span>
 <span>            var_samp_dist <span class="op">=</span> <span class="fu"><a href="https://rdrr.io/r/stats/cor.html">var</a></span><span class="op">(</span><span class="va">means</span><span class="op">)</span>,</span>
 <span>            sd_samp_dist <span class="op">=</span> <span class="fu"><a href="https://rdrr.io/r/stats/sd.html">sd</a></span><span class="op">(</span><span class="va">means</span><span class="op">)</span><span class="op">)</span></span>
